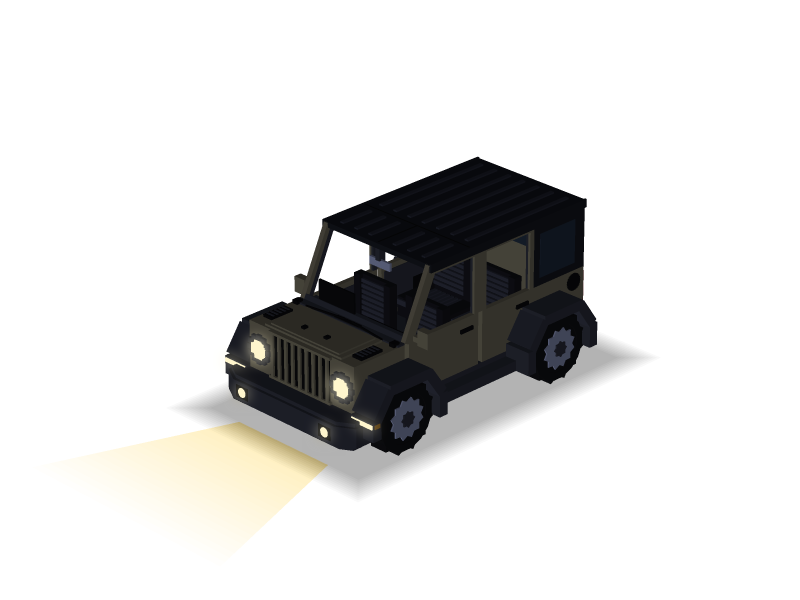
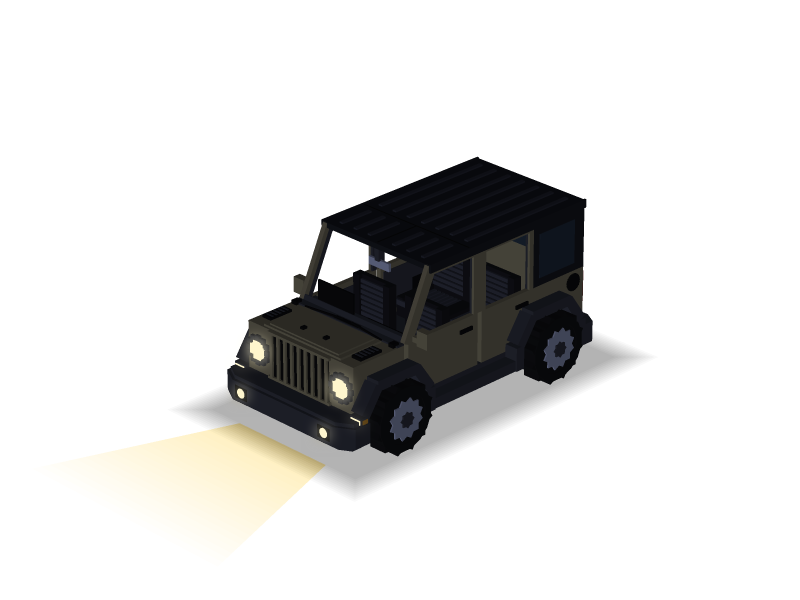
Halve the SUV's over-fender width and keep the tires where they are

diff --git a/tools/gen_model.py b/tools/gen_model.py
@@ -213,6 +213,8 @@ body += both_sides([
 # Distance of the wheel hubs from the center line. The tires stand 1.5 px out from the body's side
 # (x 13), under over-fenders.
 HUB_X = 15.5
+# Outer face of the flares: 2.75 px out from the body's side, over the inner half of the tires
+FLARE_X = 15.75
 FRONT_AXLE_Z, REAR_AXLE_Z = 17, -21
 # Wheel arch: the inside of each flare. Its flat top's underside, the top's half length, and the inner
 # lower end of each slope, ahead of and behind the axle. The inner edge stays at least 6.3 px from the
@@ -234,7 +236,7 @@ def fender_flare(z_center, front_leg_bottom, rear_leg_bottom):
     thickness = 2
     length = math.hypot(ARCH_TOP_Y - ARCH_FOOT_Y, ARCH_FOOT_Z - ARCH_TOP_HALF) + 0.6  # closes the corner
     slope = round(math.degrees(math.atan(ARCH_RUN_PER_RISE)), 3)
-    x1 = HUB_X + 3  # past the tire's outer face, so the flare reads as an over-fender
+    x1 = FLARE_X
     cubes = [box(13, ARCH_TOP_Y, z_center - ARCH_TOP_HALF - 0.8, x1, ARCH_TOP_Y + thickness,
                  z_center + ARCH_TOP_HALF + 0.8, "trim")]
     # Each slope stands on its lower inner end and tips its top toward the wheel's center; a positive x
@@ -284,8 +286,8 @@ body += both_sides([
     *fender_flare(FRONT_AXLE_Z, 5, 4),
     *fender_flare(REAR_AXLE_Z, 4, 4),
     # Light strip across the front face of the front flare's leg, and the turn signal on its outer side
-    box(13.3, 7.4, 25.9, HUB_X + 2.8, 8.2, 26.1, "light"),
-    box(HUB_X + 3, 7.4, 24.4, HUB_X + 3.1, 8.2, 25.6, "amber"),
+    box(13.3, 7.4, 25.9, FLARE_X - 0.2, 8.2, 26.1, "light"),
+    box(FLARE_X, 7.4, 24.4, FLARE_X + 0.1, 8.2, 25.6, "amber"),
 ])
 
 
